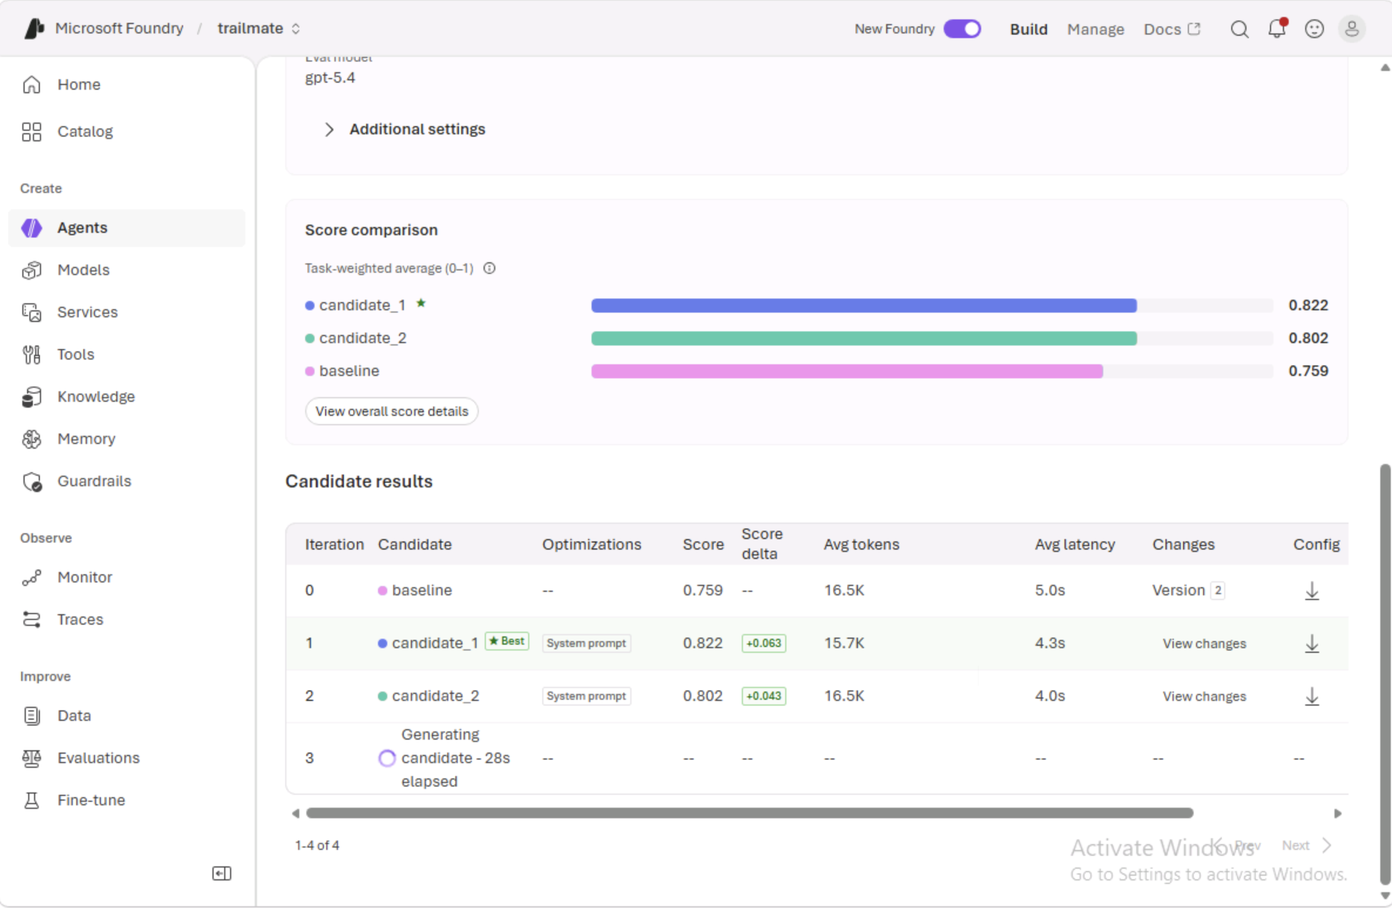
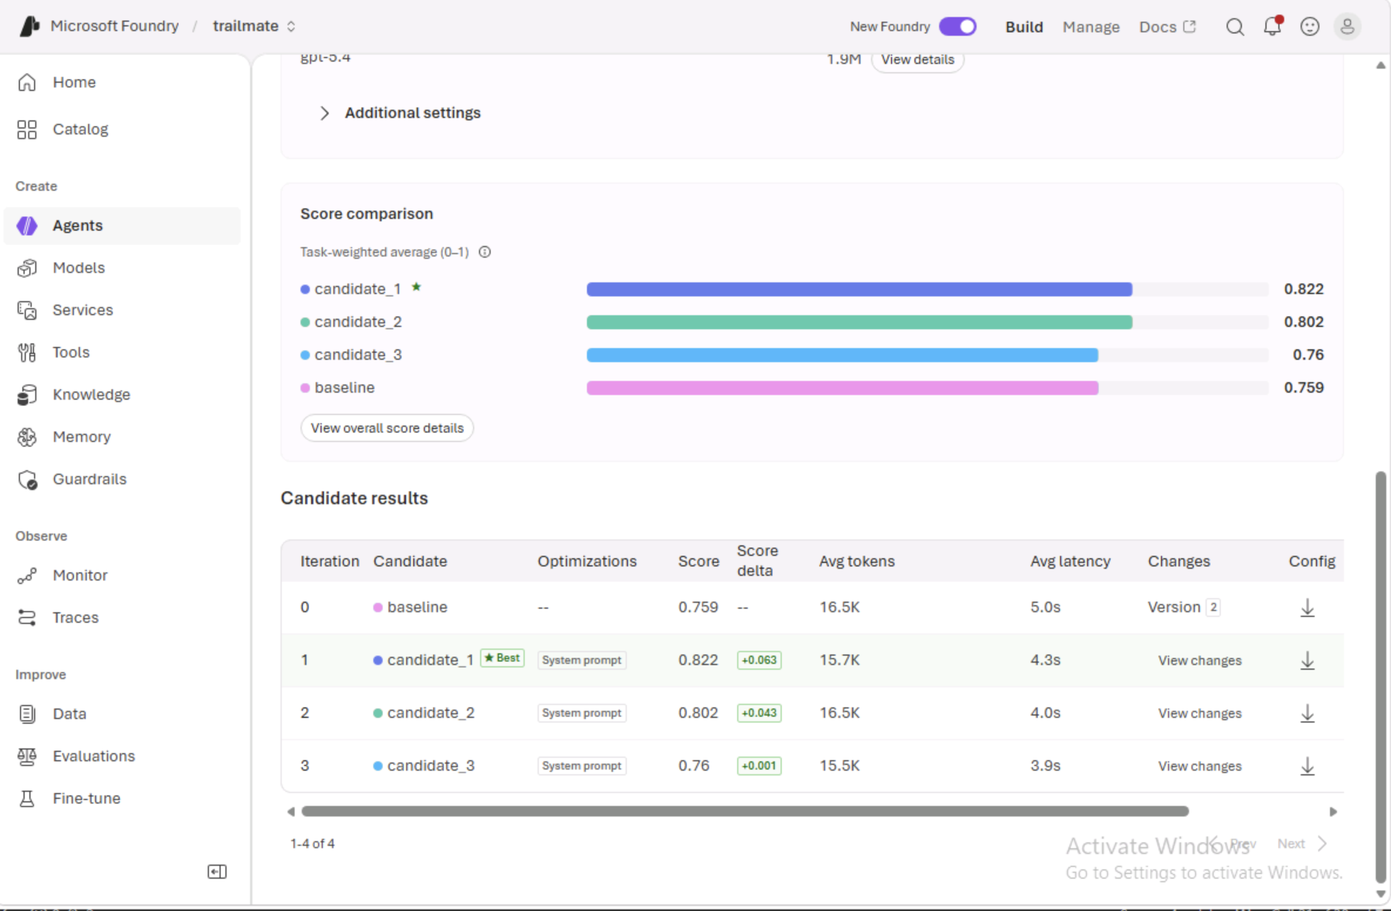
Add router and optimizer results from the dry run
Pages 4.3 and 4.4 show which model each router picked; page 6.2 shows
the finished candidates, the instruction changes, and measured cost.

diff --git a/instructions/skillable/skillable-copy.md b/instructions/skillable/skillable-copy.md
@@ -556,28 +556,26 @@ Notebook 04 was **Make it work**: we got v1 running and leaving traces. Notebook
 
 # 4.3 Let a router choose
 
-**What we'll do:** Send the same two questions to a **model router** and see which model it picks for each.
+**What we'll do:** Send the same two questions to **gpt-5.4** and to a **model router**, and see which model the router picks for each.
 
 > [!Knowledge] A **model router** is one deployment that looks at each request and sends it to a model from a pool. Easy work can go to a small model, and hard work to a bigger one.
 
-1. [] Close the gpt-5.4-mini pane with its **X**. In the remaining pane, open the **Model** menu and select **mr-default**.
-
-    <!-- VERIFY: how to switch deployments in the playground -->
-
+1. [] In the right pane, open the **Model** menu and switch **gpt-5.4-mini** to **mr-default**. Keep **gpt-5.4** on the left.
 1. [] Send the easy daypack question again.
 
     ++TrailLite Daypack specs: Weight 1.5 lbs, Dimensions 20in x 12in x 6in, Water-resistant fabric. How much does the TrailLite Daypack weigh?++
 
-1. [] Find which model answered. Look in the response details for the **model** name.
+1. [] Look at the row under the router's answer. It names the model the router chose, here **DeepSeek-V4.1-Flash**, a small, fast model.
 
-    <!-- TODO screenshot: 04-concepts-03-router-easy.png | Router response details showing the model chosen for the easy question -->
-    <!-- VERIFY: where the playground shows the routed model -->
+    ![gpt-5.4 and mr-default both answering 1.5 lbs, with the router's answer from DeepSeek-V4.1-Flash using 61 tokens](https://raw.githubusercontent.com/nitya/ignite26-LAB663/main/instructions/skillable/screenshots/04-concepts-03-router-easy.png)
 
-1. [] Send the harder tent question and find which model answered it.
+1. [] Send the harder tent question and compare the two answers, times, and tokens.
 
     ++TrailMaster X4 Tent: 4-person, 12 lbs, $250, rainfly rated 2000mm. Alpine Explorer Tent: 8-person, 17 lbs, $350, rainfly rated 3000mm. A family of six is camping in heavy rain, wants the lightest setup possible, and has a tight budget. Weigh the trade-offs and recommend one.++
 
-    <!-- TODO screenshot: 04-concepts-03-router-hard.png | Router response details showing the model chosen for the hard question -->
+    ![Both recommending the Alpine Explorer, with gpt-5.4 taking 4 seconds and about 4,600 tokens and the router's model under a second and about 660](https://raw.githubusercontent.com/nitya/ignite26-LAB663/main/instructions/skillable/screenshots/04-concepts-03-router-hard.png)
+
+> [!Note] Routers pick per request, so yours may choose a different model. In our test, the default router sent both questions to the small model and still got both right.
 
 > [+Hint] Ask Copilot: how does a router choose?
 >
@@ -585,7 +583,7 @@ Notebook 04 was **Make it work**: we got v1 running and leaving traces. Notebook
 
 ---
 
-> [!Note] **Success:** We just watched one deployment pick a model per question, without us choosing.
+> [!Note] **Success:** We just watched one deployment pick a model per question, and match gpt-5.4's answers for a fraction of the tokens.
 
 ===
 
@@ -593,18 +591,16 @@ Notebook 04 was **Make it work**: we got v1 running and leaving traces. Notebook
 
 **What we'll do:** Send the hard question to a router in **cost** mode and one in **quality** mode, and compare their choices.
 
-1. [] In the **Model** menu, select **mr-cost**. Then open **Compare models** and select **mr-quality**.
+1. [] In the left pane, open the **Model** menu and select **mr-cost**. In the right pane, select **mr-quality**.
 1. [] Send the tent question.
 
     ++TrailMaster X4 Tent: 4-person, 12 lbs, $250, rainfly rated 2000mm. Alpine Explorer Tent: 8-person, 17 lbs, $350, rainfly rated 3000mm. A family of six is camping in heavy rain, wants the lightest setup possible, and has a tight budget. Weigh the trade-offs and recommend one.++
 
-1. [] Note which model each router picked.
-1. [] Check that both recommend one Alpine Explorer.
+1. [] Scroll to the end of both answers. Note which model each router picked, and check that both recommend the Alpine Explorer.
 
-    <!-- TODO screenshot: 04-concepts-04-cost-vs-quality.png | mr-cost and mr-quality answering side by side, with the model each one chose -->
-    <!-- VERIFY: mr-cost and mr-quality pick different models for this prompt -->
+    ![mr-cost answering with DeepSeek-V4.1-Flash in 0.3 seconds and mr-quality with gpt-5.4 in 3.1 seconds, both recommending the Alpine Explorer](https://raw.githubusercontent.com/nitya/ignite26-LAB663/main/instructions/skillable/screenshots/04-concepts-04-cost-vs-quality.png)
 
-> [!Knowledge] The routing mode is a dial between cost and quality. If both picked the same model, that's a real result too. A cheaper pick only wins if the answer stays right, and that's exactly what we'll measure on page 7.1.
+> [!Knowledge] In our test, cost mode picked a small model and quality mode picked gpt-5.4, and both got it right. The routing mode is a dial between cost and quality. A cheaper pick only wins if the answer stays right across many questions, and that's what we measure on page 7.1.
 
 > [+Hint] Ask Copilot: cost or quality mode?
 >
@@ -747,20 +743,25 @@ Notebook 04 was **Make it work**: we got v1 running and leaving traces. Notebook
 
 **What we'll do:** Pick up the optimizer job, read the instructions it proposed, and check that the winner isn't just more cautious.
 
-1. [] In the Foundry portal, open **trailmate**, select the **Optimize** tab, and open our run. The details show the goal, the baseline score, and each candidate as it's scored.
+1. [] In the Foundry portal, open **trailmate**, select the **Optimize** tab, and open our run. When it finishes, the **Candidate results** show each candidate's score next to the v1 baseline, with its average tokens and latency.
 
-    ![The optimizer run details with its goal, run overview, and candidate results table](https://raw.githubusercontent.com/nitya/ignite26-LAB663/main/instructions/skillable/screenshots/06-better-02-optimizer-run-details.png)
-
-1. [] Back in VS Code, jump to section **5.6** and run the job cell again. It resumes the saved job without starting a new one, and prints **Finished** with the best and baseline scores.
-
-    <!-- TODO screenshot: 06-better-02-optimizer-finished.png | The optimizer cell printing Finished with best and baseline scores -->
+    ![Final optimizer results: baseline 0.759, candidate_1 0.822 marked Best, candidate_2 0.802, and candidate_3 0.76](https://raw.githubusercontent.com/nitya/ignite26-LAB663/main/instructions/skillable/screenshots/06-better-02-candidates.png)
 
     > [+Hint] Still running? Read our test run
     >
-    > In our test, two candidates beat the v1 baseline of 0.759: candidate_1 scored 0.822 and candidate_2 scored 0.802. Each row also shows average tokens and latency, so we can see quality, cost, and speed together. Select **View changes** to see what a candidate rewrote.
-    >
-    > ![Optimizer candidate results with the baseline at 0.759, candidate_1 at 0.822 marked Best, and candidate_2 at 0.802](https://raw.githubusercontent.com/nitya/ignite26-LAB663/main/instructions/skillable/screenshots/06-better-02-candidates.png)
+    > Ours took about 10 minutes. All three candidates beat the v1 baseline of 0.759, and candidate_1 scored best at 0.822, with slightly fewer tokens and lower latency too. Follow along with the screenshots on this page while yours finishes.
 
+1. [] On the best candidate, select **View changes**. The one-line v1 instructions became a detailed set of rules, for example to only make claims the product files support.
+
+    ![The changes for candidate_1, comparing the short baseline prompt with the much longer candidate prompt](https://raw.githubusercontent.com/nitya/ignite26-LAB663/main/instructions/skillable/screenshots/06-better-02-view-changes.png)
+
+1. [] Scroll up to **Run overview** and select **View details** next to **Total tokens**. It shows what the run itself cost, by phase.
+
+    ![Token usage for the run: about 1.9 million tokens and an estimated $5.37, mostly from running the agent and scoring responses](https://raw.githubusercontent.com/nitya/ignite26-LAB663/main/instructions/skillable/screenshots/06-better-02-token-usage.png)
+
+    > [!Note] Our run used about 1.9 million tokens, an estimated $5.37. That's above the $4.88 ceiling the notebook estimated on page 3.2. Optimizing costs real money, so we check the measured cost, not just the estimate.
+
+1. [] Back in VS Code, in **05-make-it-better.ipynb**, jump to section **5.6** and run the job cell again. It resumes the saved job and prints **Finished** with the best and baseline scores.
 1. [] Jump to section **5.7** and run its two code cells. Read each candidate's score, then read the winning instructions in full.
 1. [] Jump to section **5.8** and run its code cell. It stages the winner as a separate candidate agent. Nothing is promoted yet.
 1. [] Jump to section **5.9** and run its code cell. Check the guard-case answers against the manual.

diff --git a/instructions/skillable/skillable-copy-images.md b/instructions/skillable/skillable-copy-images.md
@@ -556,28 +556,26 @@ Notebook 04 was **Make it work**: we got v1 running and leaving traces. Notebook
 
 # 4.3 Let a router choose
 
-**What we'll do:** Send the same two questions to a **model router** and see which model it picks for each.
+**What we'll do:** Send the same two questions to **gpt-5.4** and to a **model router**, and see which model the router picks for each.
 
 > [!Knowledge] A **model router** is one deployment that looks at each request and sends it to a model from a pool. Easy work can go to a small model, and hard work to a bigger one.
 
-1. [] Close the gpt-5.4-mini pane with its **X**. In the remaining pane, open the **Model** menu and select **mr-default**.
-
-    <!-- VERIFY: how to switch deployments in the playground -->
-
+1. [] In the right pane, open the **Model** menu and switch **gpt-5.4-mini** to **mr-default**. Keep **gpt-5.4** on the left.
 1. [] Send the easy daypack question again.
 
     ++TrailLite Daypack specs: Weight 1.5 lbs, Dimensions 20in x 12in x 6in, Water-resistant fabric. How much does the TrailLite Daypack weigh?++
 
-1. [] Find which model answered. Look in the response details for the **model** name.
+1. [] Look at the row under the router's answer. It names the model the router chose, here **DeepSeek-V4.1-Flash**, a small, fast model.
 
-    <!-- TODO screenshot: 04-concepts-03-router-easy.png | Router response details showing the model chosen for the easy question -->
-    <!-- VERIFY: where the playground shows the routed model -->
+    <!-- IMAGE: 04-concepts-03-router-easy.png | gpt-5.4 and mr-default both answering 1.5 lbs, with the router's answer from DeepSeek-V4.1-Flash using 61 tokens -->
 
-1. [] Send the harder tent question and find which model answered it.
+1. [] Send the harder tent question and compare the two answers, times, and tokens.
 
     ++TrailMaster X4 Tent: 4-person, 12 lbs, $250, rainfly rated 2000mm. Alpine Explorer Tent: 8-person, 17 lbs, $350, rainfly rated 3000mm. A family of six is camping in heavy rain, wants the lightest setup possible, and has a tight budget. Weigh the trade-offs and recommend one.++
 
-    <!-- TODO screenshot: 04-concepts-03-router-hard.png | Router response details showing the model chosen for the hard question -->
+    <!-- IMAGE: 04-concepts-03-router-hard.png | Both recommending the Alpine Explorer, with gpt-5.4 taking 4 seconds and about 4,600 tokens and the router's model under a second and about 660 -->
+
+> [!Note] Routers pick per request, so yours may choose a different model. In our test, the default router sent both questions to the small model and still got both right.
 
 > [+Hint] Ask Copilot: how does a router choose?
 >
@@ -585,7 +583,7 @@ Notebook 04 was **Make it work**: we got v1 running and leaving traces. Notebook
 
 ---
 
-> [!Note] **Success:** We just watched one deployment pick a model per question, without us choosing.
+> [!Note] **Success:** We just watched one deployment pick a model per question, and match gpt-5.4's answers for a fraction of the tokens.
 
 ===
 
@@ -593,18 +591,16 @@ Notebook 04 was **Make it work**: we got v1 running and leaving traces. Notebook
 
 **What we'll do:** Send the hard question to a router in **cost** mode and one in **quality** mode, and compare their choices.
 
-1. [] In the **Model** menu, select **mr-cost**. Then open **Compare models** and select **mr-quality**.
+1. [] In the left pane, open the **Model** menu and select **mr-cost**. In the right pane, select **mr-quality**.
 1. [] Send the tent question.
 
     ++TrailMaster X4 Tent: 4-person, 12 lbs, $250, rainfly rated 2000mm. Alpine Explorer Tent: 8-person, 17 lbs, $350, rainfly rated 3000mm. A family of six is camping in heavy rain, wants the lightest setup possible, and has a tight budget. Weigh the trade-offs and recommend one.++
 
-1. [] Note which model each router picked.
-1. [] Check that both recommend one Alpine Explorer.
+1. [] Scroll to the end of both answers. Note which model each router picked, and check that both recommend the Alpine Explorer.
 
-    <!-- TODO screenshot: 04-concepts-04-cost-vs-quality.png | mr-cost and mr-quality answering side by side, with the model each one chose -->
-    <!-- VERIFY: mr-cost and mr-quality pick different models for this prompt -->
+    <!-- IMAGE: 04-concepts-04-cost-vs-quality.png | mr-cost answering with DeepSeek-V4.1-Flash in 0.3 seconds and mr-quality with gpt-5.4 in 3.1 seconds, both recommending the Alpine Explorer -->
 
-> [!Knowledge] The routing mode is a dial between cost and quality. If both picked the same model, that's a real result too. A cheaper pick only wins if the answer stays right, and that's exactly what we'll measure on page 7.1.
+> [!Knowledge] In our test, cost mode picked a small model and quality mode picked gpt-5.4, and both got it right. The routing mode is a dial between cost and quality. A cheaper pick only wins if the answer stays right across many questions, and that's what we measure on page 7.1.
 
 > [+Hint] Ask Copilot: cost or quality mode?
 >
@@ -747,20 +743,25 @@ Notebook 04 was **Make it work**: we got v1 running and leaving traces. Notebook
 
 **What we'll do:** Pick up the optimizer job, read the instructions it proposed, and check that the winner isn't just more cautious.
 
-1. [] In the Foundry portal, open **trailmate**, select the **Optimize** tab, and open our run. The details show the goal, the baseline score, and each candidate as it's scored.
+1. [] In the Foundry portal, open **trailmate**, select the **Optimize** tab, and open our run. When it finishes, the **Candidate results** show each candidate's score next to the v1 baseline, with its average tokens and latency.
 
-    <!-- IMAGE: 06-better-02-optimizer-run-details.png | The optimizer run details with its goal, run overview, and candidate results table -->
-
-1. [] Back in VS Code, jump to section **5.6** and run the job cell again. It resumes the saved job without starting a new one, and prints **Finished** with the best and baseline scores.
-
-    <!-- TODO screenshot: 06-better-02-optimizer-finished.png | The optimizer cell printing Finished with best and baseline scores -->
+    <!-- IMAGE: 06-better-02-candidates.png | Final optimizer results: baseline 0.759, candidate_1 0.822 marked Best, candidate_2 0.802, and candidate_3 0.76 -->
 
     > [+Hint] Still running? Read our test run
     >
-    > In our test, two candidates beat the v1 baseline of 0.759: candidate_1 scored 0.822 and candidate_2 scored 0.802. Each row also shows average tokens and latency, so we can see quality, cost, and speed together. Select **View changes** to see what a candidate rewrote.
-    >
-    > <!-- IMAGE: 06-better-02-candidates.png | Optimizer candidate results with the baseline at 0.759, candidate_1 at 0.822 marked Best, and candidate_2 at 0.802 -->
+    > Ours took about 10 minutes. All three candidates beat the v1 baseline of 0.759, and candidate_1 scored best at 0.822, with slightly fewer tokens and lower latency too. Follow along with the screenshots on this page while yours finishes.
 
+1. [] On the best candidate, select **View changes**. The one-line v1 instructions became a detailed set of rules, for example to only make claims the product files support.
+
+    <!-- IMAGE: 06-better-02-view-changes.png | The changes for candidate_1, comparing the short baseline prompt with the much longer candidate prompt -->
+
+1. [] Scroll up to **Run overview** and select **View details** next to **Total tokens**. It shows what the run itself cost, by phase.
+
+    <!-- IMAGE: 06-better-02-token-usage.png | Token usage for the run: about 1.9 million tokens and an estimated $5.37, mostly from running the agent and scoring responses -->
+
+    > [!Note] Our run used about 1.9 million tokens, an estimated $5.37. That's above the $4.88 ceiling the notebook estimated on page 3.2. Optimizing costs real money, so we check the measured cost, not just the estimate.
+
+1. [] Back in VS Code, in **05-make-it-better.ipynb**, jump to section **5.6** and run the job cell again. It resumes the saved job and prints **Finished** with the best and baseline scores.
 1. [] Jump to section **5.7** and run its two code cells. Read each candidate's score, then read the winning instructions in full.
 1. [] Jump to section **5.8** and run its code cell. It stages the winner as a separate candidate agent. Nothing is promoted yet.
 1. [] Jump to section **5.9** and run its code cell. Check the guard-case answers against the manual.

diff --git a/instructions/skillable/06-better-02.md b/instructions/skillable/06-better-02.md
@@ -2,20 +2,25 @@
 
 **What we'll do:** Pick up the optimizer job, read the instructions it proposed, and check that the winner isn't just more cautious.
 
-1. [] In the Foundry portal, open **trailmate**, select the **Optimize** tab, and open our run. The details show the goal, the baseline score, and each candidate as it's scored.
+1. [] In the Foundry portal, open **trailmate**, select the **Optimize** tab, and open our run. When it finishes, the **Candidate results** show each candidate's score next to the v1 baseline, with its average tokens and latency.
 
-    ![The optimizer run details with its goal, run overview, and candidate results table](screenshots/06-better-02-optimizer-run-details.png)
-
-1. [] Back in VS Code, jump to section **5.6** and run the job cell again. It resumes the saved job without starting a new one, and prints **Finished** with the best and baseline scores.
-
-    <!-- TODO screenshot: 06-better-02-optimizer-finished.png | The optimizer cell printing Finished with best and baseline scores -->
+    ![Final optimizer results: baseline 0.759, candidate_1 0.822 marked Best, candidate_2 0.802, and candidate_3 0.76](screenshots/06-better-02-candidates.png)
 
     > [+Hint] Still running? Read our test run
     >
-    > In our test, two candidates beat the v1 baseline of 0.759: candidate_1 scored 0.822 and candidate_2 scored 0.802. Each row also shows average tokens and latency, so we can see quality, cost, and speed together. Select **View changes** to see what a candidate rewrote.
-    >
-    > ![Optimizer candidate results with the baseline at 0.759, candidate_1 at 0.822 marked Best, and candidate_2 at 0.802](screenshots/06-better-02-candidates.png)
+    > Ours took about 10 minutes. All three candidates beat the v1 baseline of 0.759, and candidate_1 scored best at 0.822, with slightly fewer tokens and lower latency too. Follow along with the screenshots on this page while yours finishes.
 
+1. [] On the best candidate, select **View changes**. The one-line v1 instructions became a detailed set of rules, for example to only make claims the product files support.
+
+    ![The changes for candidate_1, comparing the short baseline prompt with the much longer candidate prompt](screenshots/06-better-02-view-changes.png)
+
+1. [] Scroll up to **Run overview** and select **View details** next to **Total tokens**. It shows what the run itself cost, by phase.
+
+    ![Token usage for the run: about 1.9 million tokens and an estimated $5.37, mostly from running the agent and scoring responses](screenshots/06-better-02-token-usage.png)
+
+    > [!Note] Our run used about 1.9 million tokens, an estimated $5.37. That's above the $4.88 ceiling the notebook estimated on page 3.2. Optimizing costs real money, so we check the measured cost, not just the estimate.
+
+1. [] Back in VS Code, in **05-make-it-better.ipynb**, jump to section **5.6** and run the job cell again. It resumes the saved job and prints **Finished** with the best and baseline scores.
 1. [] Jump to section **5.7** and run its two code cells. Read each candidate's score, then read the winning instructions in full.
 1. [] Jump to section **5.8** and run its code cell. It stages the winner as a separate candidate agent. Nothing is promoted yet.
 1. [] Jump to section **5.9** and run its code cell. Check the guard-case answers against the manual.

diff --git a/instructions/skillable/04-concepts-03.md b/instructions/skillable/04-concepts-03.md
@@ -1,27 +1,25 @@
 # 4.3 Let a router choose
 
-**What we'll do:** Send the same two questions to a **model router** and see which model it picks for each.
+**What we'll do:** Send the same two questions to **gpt-5.4** and to a **model router**, and see which model the router picks for each.
 
 > [!Knowledge] A **model router** is one deployment that looks at each request and sends it to a model from a pool. Easy work can go to a small model, and hard work to a bigger one.
 
-1. [] Close the gpt-5.4-mini pane with its **X**. In the remaining pane, open the **Model** menu and select **mr-default**.
-
-    <!-- VERIFY: how to switch deployments in the playground -->
-
+1. [] In the right pane, open the **Model** menu and switch **gpt-5.4-mini** to **mr-default**. Keep **gpt-5.4** on the left.
 1. [] Send the easy daypack question again.
 
     ++TrailLite Daypack specs: Weight 1.5 lbs, Dimensions 20in x 12in x 6in, Water-resistant fabric. How much does the TrailLite Daypack weigh?++
 
-1. [] Find which model answered. Look in the response details for the **model** name.
+1. [] Look at the row under the router's answer. It names the model the router chose, here **DeepSeek-V4.1-Flash**, a small, fast model.
 
-    <!-- TODO screenshot: 04-concepts-03-router-easy.png | Router response details showing the model chosen for the easy question -->
-    <!-- VERIFY: where the playground shows the routed model -->
+    ![gpt-5.4 and mr-default both answering 1.5 lbs, with the router's answer from DeepSeek-V4.1-Flash using 61 tokens](screenshots/04-concepts-03-router-easy.png)
 
-1. [] Send the harder tent question and find which model answered it.
+1. [] Send the harder tent question and compare the two answers, times, and tokens.
 
     ++TrailMaster X4 Tent: 4-person, 12 lbs, $250, rainfly rated 2000mm. Alpine Explorer Tent: 8-person, 17 lbs, $350, rainfly rated 3000mm. A family of six is camping in heavy rain, wants the lightest setup possible, and has a tight budget. Weigh the trade-offs and recommend one.++
 
-    <!-- TODO screenshot: 04-concepts-03-router-hard.png | Router response details showing the model chosen for the hard question -->
+    ![Both recommending the Alpine Explorer, with gpt-5.4 taking 4 seconds and about 4,600 tokens and the router's model under a second and about 660](screenshots/04-concepts-03-router-hard.png)
+
+> [!Note] Routers pick per request, so yours may choose a different model. In our test, the default router sent both questions to the small model and still got both right.
 
 > [+Hint] Ask Copilot: how does a router choose?
 >
@@ -29,4 +27,4 @@
 
 ---
 
-> [!Note] **Success:** We just watched one deployment pick a model per question, without us choosing.
+> [!Note] **Success:** We just watched one deployment pick a model per question, and match gpt-5.4's answers for a fraction of the tokens.

diff --git a/instructions/skillable/04-concepts-04.md b/instructions/skillable/04-concepts-04.md
@@ -2,18 +2,16 @@
 
 **What we'll do:** Send the hard question to a router in **cost** mode and one in **quality** mode, and compare their choices.
 
-1. [] In the **Model** menu, select **mr-cost**. Then open **Compare models** and select **mr-quality**.
+1. [] In the left pane, open the **Model** menu and select **mr-cost**. In the right pane, select **mr-quality**.
 1. [] Send the tent question.
 
     ++TrailMaster X4 Tent: 4-person, 12 lbs, $250, rainfly rated 2000mm. Alpine Explorer Tent: 8-person, 17 lbs, $350, rainfly rated 3000mm. A family of six is camping in heavy rain, wants the lightest setup possible, and has a tight budget. Weigh the trade-offs and recommend one.++
 
-1. [] Note which model each router picked.
-1. [] Check that both recommend one Alpine Explorer.
+1. [] Scroll to the end of both answers. Note which model each router picked, and check that both recommend the Alpine Explorer.
 
-    <!-- TODO screenshot: 04-concepts-04-cost-vs-quality.png | mr-cost and mr-quality answering side by side, with the model each one chose -->
-    <!-- VERIFY: mr-cost and mr-quality pick different models for this prompt -->
+    ![mr-cost answering with DeepSeek-V4.1-Flash in 0.3 seconds and mr-quality with gpt-5.4 in 3.1 seconds, both recommending the Alpine Explorer](screenshots/04-concepts-04-cost-vs-quality.png)
 
-> [!Knowledge] The routing mode is a dial between cost and quality. If both picked the same model, that's a real result too. A cheaper pick only wins if the answer stays right, and that's exactly what we'll measure on page 7.1.
+> [!Knowledge] In our test, cost mode picked a small model and quality mode picked gpt-5.4, and both got it right. The routing mode is a dial between cost and quality. A cheaper pick only wins if the answer stays right across many questions, and that's what we measure on page 7.1.
 
 > [+Hint] Ask Copilot: cost or quality mode?
 >
